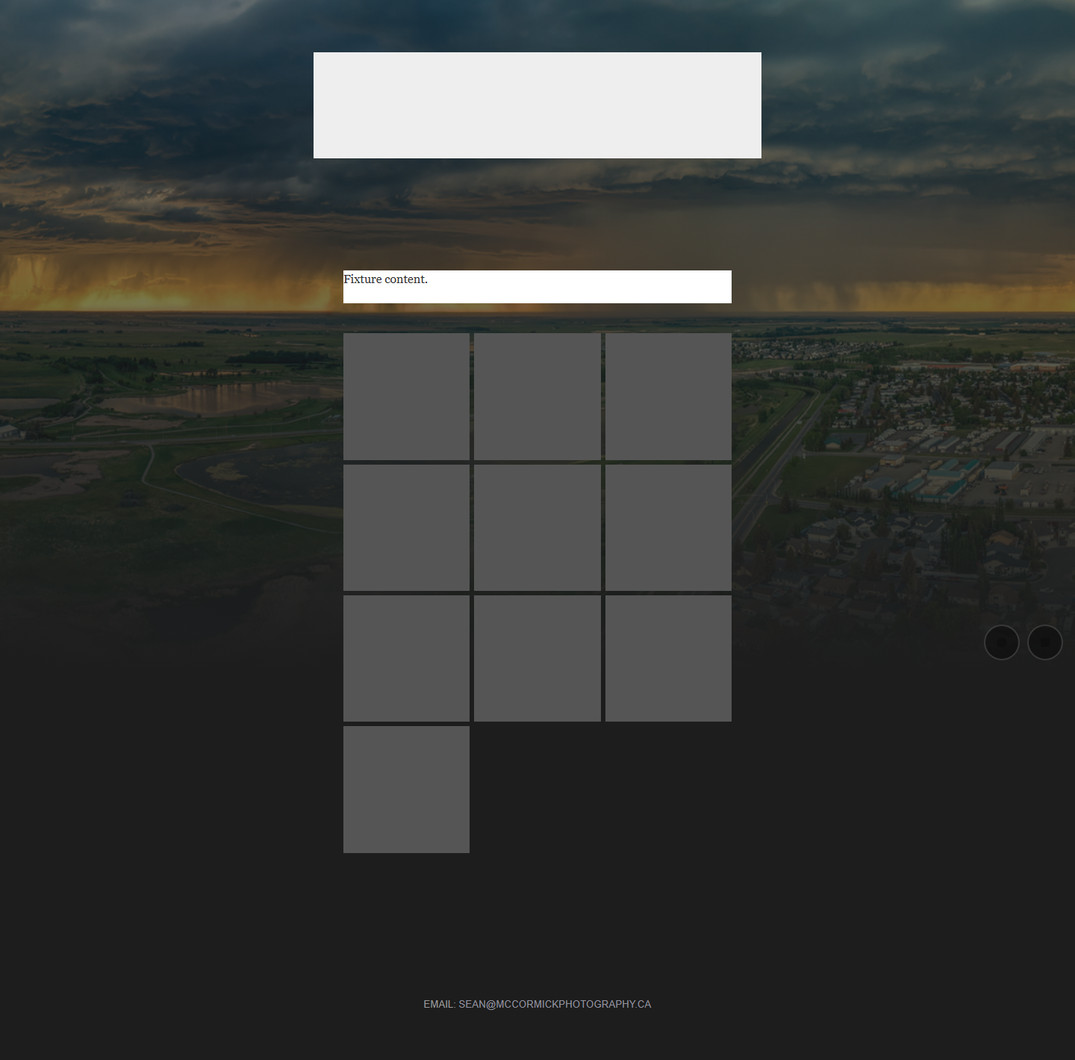
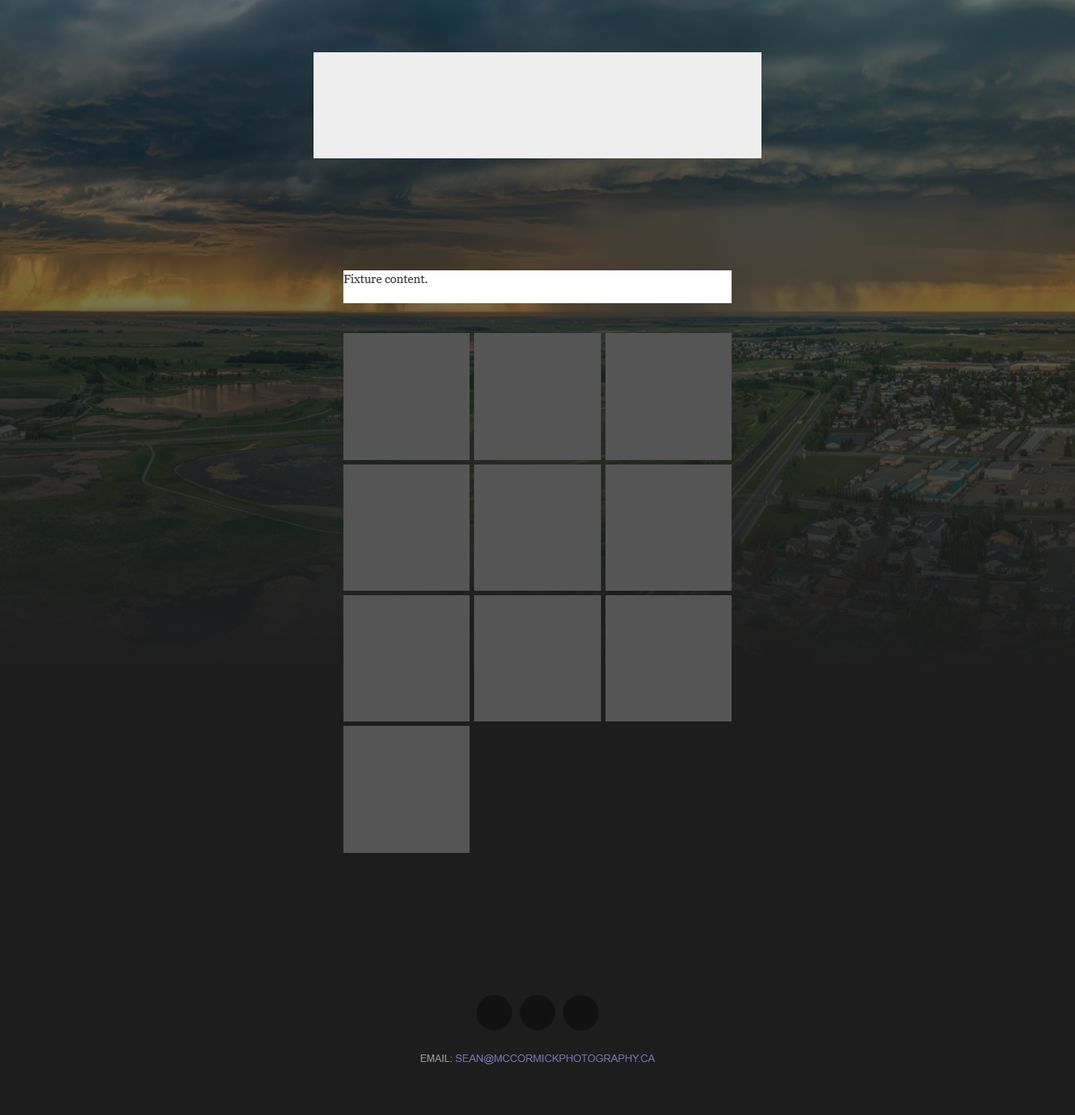
Repair shared Social Dock rendering
Give strict skins a dedicated social_dock view model, wire it into both public controller paths, and restore ALFRED's footer placement. Hide accessibility labels in the shared dock CSS so SCROLL and every other skin no longer expose raw platform names. Add independent Pixelfed and Email controls across settings, export, fleet push, legacy rendering, and the strict shared component. Bump ALFRED to 1.0.24 and browser-verify at 1920, 1440, and 1024.

diff --git a/assets/css/ss-engine-social-dock.css b/assets/css/ss-engine-social-dock.css
@@ -79,6 +79,21 @@
     flex-shrink: 0;
 }
 
+/* The dock owns this accessibility label. Do not depend on a skin defining
+   the generic WordPress-era helper: SCROLL did not, so the labels rendered as
+   visible text over the navigation even though the SVGs were present. */
+.dock-link .screen-reader-text {
+    position: absolute !important;
+    width: 1px;
+    height: 1px;
+    padding: 0;
+    margin: -1px;
+    overflow: hidden;
+    clip: rect(0, 0, 0, 0);
+    white-space: nowrap;
+    border: 0;
+}
+
 
 /* ─── DOWNLOAD ICON IN DOCK ────────────────────────────────────── */
 

diff --git a/skins/alfred/layout.php b/skins/alfred/layout.php
@@ -7,7 +7,7 @@
 <?php elseif (($view['response']['kind'] ?? '') === 'feed'): ?><section class="section-inner"><div id="browse-grid" class="alfred-archive-grid posts smacktalk-feed public-grid h-feed <?php echo snap_escape_attr($view['site']['skin_presentation']['landing']['grid_class'] ?? ''); ?>"><?php foreach (($view['response']['posts'] ?? []) as $post): ?><article class="post smacktalk-feed-item ss-masonry-item"><a class="alfred-archive-tile" href="<?php echo snap_escape_url($post['url'] ?? ''); ?>"><?php if (!empty($post['image_url'])): ?><?php echo snap_render_html(snap_render_component('image', ['url' => $post['image_url'], 'alt' => $post['title'] ?? ''])); ?><?php endif; ?><span class="alfred-tile-title"><?php echo snap_escape_html($post['title'] ?? ''); ?></span></a></article><?php endforeach; ?></div><?php if (!empty($view['response']['next_url'])): ?><?php echo snap_render_html(snap_render_component('feed-pager', ['prefix' => 'alfred', 'feed' => true, 'base' => snap_route_url('home'), 'next_url' => $view['response']['next_url'], 'next_page' => $view['response']['next_page'] ?? 0, 'grid_selector' => '#browse-grid', 'item_selector' => '#browse-grid > .smacktalk-feed-item'])); ?><?php endif; ?></section>
 <?php elseif (($view['response']['kind'] ?? '') === 'archive'): ?><section class="section-inner smacktalk-archive"><h1><?php echo snap_escape_html($view['response']['page_title'] ?? 'Archive'); ?></h1><?php echo snap_render_html(snap_render_component('search-summary', ['term' => $view['response']['search_term'] ?? '', 'posts' => $view['response']['search_posts'] ?? [], 'tiles' => $view['response']['tiles'] ?? []])); ?><div class="alfred-archive-grid<?php if (($view['site']['skin_presentation']['options']['show_post_titles'] ?? '0') === '1'): ?> alfred-show-titles<?php endif; ?>"><?php foreach (($view['response']['tiles'] ?? []) as $tile): ?><a class="alfred-archive-tile" href="<?php echo snap_escape_url($tile['full'] ?? ''); ?>" data-full="<?php echo snap_escape_url($tile['full'] ?? ''); ?>" data-title="<?php echo snap_escape_attr($tile['title'] ?? ''); ?>" aria-label="<?php echo snap_escape_attr(($tile['title'] ?? '') !== '' ? $tile['title'] : 'View photograph'); ?>"><?php echo snap_render_html(snap_render_component('image', ['url' => $tile['thumb'] ?? '', 'alt' => $tile['title'] ?? ''])); ?><span class="alfred-tile-title"><?php echo snap_escape_html($tile['title'] ?? ''); ?></span></a><?php endforeach; ?></div><?php if (empty($view['response']['tiles'])): ?><p class="alfred-archive-empty">No photographs found.</p><?php endif; ?><div id="alfred-archive-lightbox" class="alfred-lightbox" role="dialog" aria-modal="true" aria-label="Photograph viewer" hidden><button class="alfred-lb-close" type="button" aria-label="Close photograph viewer">&#215;</button><button class="alfred-lb-prev" type="button" aria-label="Previous photograph">&#8249;</button><img class="alfred-lb-img" alt=""><button class="alfred-lb-next" type="button" aria-label="Next photograph">&#8250;</button><p class="alfred-lb-caption"></p></div></section>
 <?php else: ?><section class="not-found"><h1>Not found</h1></section><?php endif; ?>
-</main></div><footer id="system-footer" class="site-footer<?php if (!empty($view['site']['footer']['lowercase'])): ?> footer-lowercase<?php endif; ?>"><div id="footer" class="inside"><?php echo snap_render_html(snap_render_component('social-dock', ['model' => $view['site']['crop_circles'] ?? []])); ?><?php echo snap_render_html(snap_render_component('footer', ['footer' => $view['site']['footer'] ?? []])); ?></div></footer></div><?php echo snap_render_html(snap_render_component('registered-assets', ['assets' => $view['site']['registered_assets'] ?? []])); ?><?php echo snap_render_html($view['site']['owner_custom_code'] ?? ''); ?></body></html>
+</main></div><footer id="system-footer" class="site-footer<?php if (!empty($view['site']['footer']['lowercase'])): ?> footer-lowercase<?php endif; ?>"><div id="footer" class="inside"><?php echo snap_render_html(snap_render_component('social-dock', ['model' => $view['site']['social_dock'] ?? []])); ?><?php echo snap_render_html(snap_render_component('footer', ['footer' => $view['site']['footer'] ?? []])); ?></div></footer></div><?php echo snap_render_html(snap_render_component('registered-assets', ['assets' => $view['site']['registered_assets'] ?? []])); ?><?php echo snap_render_html($view['site']['owner_custom_code'] ?? ''); ?></body></html>
 
 
 <?php // ===== SNAPSMACK EOF =====

diff --git a/core/social-dock.php b/core/social-dock.php
@@ -132,6 +132,16 @@ $_dock_platforms = [
         'key' => 'social_dock_linktree',
         'svg' => '<svg viewBox="0 0 24 24" fill="currentColor"><path d="M7.953 15.066l-.038-4.086-3.291 3.19-1.624-1.624 3.291-3.19H2.135V7.178h4.156L2.935 3.832l1.624-1.624 3.355 3.355L7.953 1.5h2.09v4.063l3.356-3.355 1.624 1.624-3.356 3.346h4.156v2.178h-4.156l3.291 3.19-1.624 1.624-3.291-3.19.038 4.086h-2.09zm0 1.998h2.09V22.5h-2.09v-5.436z"/></svg>'
     ],
+    'pixelfed' => [
+        'label' => 'Pixelfed',
+        'key' => 'social_dock_pixelfed',
+        'svg' => '<svg viewBox="0 0 24 24" fill="currentColor" fill-rule="evenodd"><path d="M6.5 3h11A3.5 3.5 0 0 1 21 6.5v11a3.5 3.5 0 0 1-3.5 3.5h-11A3.5 3.5 0 0 1 3 17.5v-11A3.5 3.5 0 0 1 6.5 3Zm4 5.2v8.3h1.9v-2.6h1.4a2.85 2.85 0 0 0 0-5.7Zm1.9 1.8h1.3a1.05 1.05 0 0 1 0 2.1h-1.3Z"/></svg>'
+    ],
+    'email' => [
+        'label' => 'Email',
+        'key' => 'social_dock_email',
+        'svg' => '<svg viewBox="0 0 24 24" fill="none" stroke="currentColor" stroke-width="1.8" stroke-linecap="round" stroke-linejoin="round"><rect x="3" y="5" width="18" height="14" rx="2"/><path d="m4 7 8 6 8-6"/></svg>'
+    ],
     'website' => [
         'label' => 'Website',
         'key' => 'social_dock_website',
@@ -162,6 +172,8 @@ $_dock_outline = [
     'deviantart' => '<svg viewBox="0 0 24 24" fill="none" stroke="currentColor" stroke-width="1.8" stroke-linecap="round" stroke-linejoin="round"><path d="M17 4.5h-3l-1.4 2.8H8.5v3.4h2.4L8.5 15.4v4.1h3l1.4-2.8h4.1v-3.4h-2.4L17 8.6z"/></svg>',
     'behance'    => '<svg viewBox="0 0 24 24" fill="none" stroke="currentColor" stroke-width="1.8" stroke-linecap="round" stroke-linejoin="round"><path d="M4 7.5h3.4a1.8 1.8 0 0 1 0 3.6H4z"/><path d="M4 11.1h3.9a1.9 1.9 0 0 1 0 3.8H4V7.5z"/><path d="M14 12.6h4.2a2.3 2.3 0 0 0-4.2 0 2.3 2.3 0 0 0 3.8 1.7"/><path d="M15 8.4h3"/></svg>',
     'linktree'   => '<svg viewBox="0 0 24 24" fill="none" stroke="currentColor" stroke-width="1.8" stroke-linecap="round" stroke-linejoin="round"><path d="M12 3v18"/><path d="M12 8.5l5.5-3.2M12 8.5L6.5 5.3"/><path d="M12 13.5l5.5 3.2M12 13.5l-5.5 3.2"/></svg>',
+    'pixelfed'   => '<svg viewBox="0 0 24 24" fill="none" stroke="currentColor" stroke-width="1.8" stroke-linecap="round" stroke-linejoin="round"><rect x="3.5" y="3.5" width="17" height="17" rx="5"/><path d="M10 16.5v-9h3a3 3 0 0 1 0 6h-3"/></svg>',
+    'email'      => '<svg viewBox="0 0 24 24" fill="none" stroke="currentColor" stroke-width="1.8" stroke-linecap="round" stroke-linejoin="round"><rect x="3" y="5" width="18" height="14" rx="2"/><path d="m4 7 8 6 8-6"/></svg>',
     'website'    => '<svg viewBox="0 0 24 24" fill="none" stroke="currentColor" stroke-width="1.8" stroke-linecap="round" stroke-linejoin="round"><circle cx="12" cy="12" r="8.5"/><path d="M3.5 12h17"/><path d="M12 3.5c2.4 2.5 3.7 5.6 3.7 8.5S14.4 18 12 20.5C9.6 18 8.3 14.9 8.3 12S9.6 6 12 3.5z"/></svg>',
 ];
 $_dock_icon_style = (($_dock_ovr['icon_style'] ?? ($settings['social_dock_icon_style'] ?? 'solid')) === 'outline') ? 'outline' : 'solid';
@@ -175,7 +187,10 @@ $_dock_pixelfed_outline = '<svg viewBox="0 0 24 24" fill="none" stroke="currentC
 // Build active links array
 $_dock_links = [];
 foreach ($_dock_platforms as $_platform_key => $_platform) {
-    $_url = snapsmack_indieweb_url((string)($settings[ $_platform['key'] ] ?? ''));
+    $_value = (string)($settings[ $_platform['key'] ] ?? '');
+    $_url = $_platform_key === 'email'
+        ? snapsmack_social_email_url($_value)
+        : snapsmack_indieweb_url($_value);
     if ($_url !== '') {
         $_svg = ($_dock_icon_style === 'outline' && isset($_dock_outline[$_platform_key]))
             ? $_dock_outline[$_platform_key]

diff --git a/tests/strict-skins-can-place-the-shared-social-dock-regression.php b/tests/strict-skins-can-place-the-shared-social-dock-regression.php
@@ -47,6 +47,7 @@ if (!defined('BASE_URL')) { define('BASE_URL', 'https://example.invalid/'); }
 require_once $root . '/core/trusted-html.php';
 require_once $root . '/core/skin-render-helpers.php';
 require_once $root . '/core/skin-view-contract.php';
+require_once $root . '/core/indieweb.php';
 
 /** The crop_circles view model core builds, with two configured platforms. */
 function sd_model(array $social = []): array {
@@ -95,6 +96,17 @@ sd_check('  the appearance settings the owner chose, all of them',
          && str_contains($dock, '--dock-idle-opacity:0.5'), $failures);
 sd_check('  and a name for screen readers on every link',
          substr_count($dock, 'screen-reader-text') === 2, $failures);
+$emailDock = (string)snap_render_component('social-dock', ['model' => sd_model([
+    ['url' => snapsmack_social_email_url('owner@example.test'), 'label' => 'Email', 'icon' => 'email'],
+    ['url' => 'https://pixelfed.social/owner', 'label' => 'Pixelfed', 'icon' => 'pixelfed'],
+])]);
+sd_check('Email and external Pixelfed are independent dock links',
+         str_contains($emailDock, 'href="mailto:owner@example.test"')
+         && str_contains($emailDock, 'crop-circles.svg#email')
+         && str_contains($emailDock, 'https://pixelfed.social/owner')
+         && str_contains($emailDock, 'crop-circles.svg#pixelfed'), $failures);
+sd_check('an invalid email cannot become a dock URL',
+         snapsmack_social_email_url('not an address') === '', $failures);
 
 // A corner position, for a skin that wants the floating dock rather than a row.
 $corner = (string)snap_render_component('social-dock',
@@ -160,7 +172,7 @@ file_put_contents($tmp . '/layout.php',
     '<?php defined(\'SNAPSMACK_SKIN_RENDER\') || exit; ?>' . "\n"
     . '<!doctype html><html><head><title>t</title></head><body><footer>'
     . '<?php echo snap_render_html(snap_render_component(\'social-dock\','
-    . ' [\'model\' => $view[\'site\'][\'crop_circles\'] ?? []])); ?>'
+    . ' [\'model\' => $view[\'site\'][\'social_dock\'] ?? []])); ?>'
     . '</footer></body></html>');
 
 $view = [
@@ -168,7 +180,7 @@ $view = [
     'version' => SNAPSMACK_SKIN_VIEW_MODEL_VERSION,
     'response' => ['kind' => 'feed', 'posts' => []],
     'site' => ['site_name' => 'A Photographer', 'language' => 'en', 'direction' => 'ltr',
-               'crop_circles' => sd_model($two)],
+               'social_dock' => sd_model($two)],
 ];
 
 ob_start();
@@ -185,7 +197,7 @@ sd_check('  inside the footer where the template put it',
 
 // And the same template with the dock off renders a footer with nothing in it.
 $viewOff = $view;
-$viewOff['site']['crop_circles'] = sd_model([]);
+$viewOff['site']['social_dock'] = sd_model([]);
 ob_start();
 snapsmack_render_strict_skin_template($tmp, 'layout.php', $viewOff);
 $outOff = (string)ob_get_clean();
@@ -209,6 +221,11 @@ sd_check('and a manifest that does not declare it gets no dock stylesheet',
          !array_filter(snapsmack_skin_declared_assets([])['styles'],
              static fn(string $u): bool => str_contains($u, 'ss-engine-social-dock.css')),
          $failures);
+
+$dockCss = (string)file_get_contents($root . '/assets/css/ss-engine-social-dock.css');
+sd_check('the shared dock hides its own screen-reader labels without skin CSS',
+         str_contains($dockCss, '.dock-link .screen-reader-text')
+         && str_contains($dockCss, 'clip: rect(0, 0, 0, 0)'), $failures);
 
 echo "\n";
 if ($failures) {

diff --git a/core/skin-view-model.php b/core/skin-view-model.php
@@ -141,10 +141,14 @@ function snapsmack_prepare_crop_circles(PDO $pdo, array $settings, array $manife
             'flickr'=>'Flickr','smugmug'=>'SmugMug','instagram'=>'Instagram','facebook'=>'Facebook',
             'youtube'=>'YouTube','500px'=>'500px','vero'=>'Vero','threads'=>'Threads',
             'mastodon'=>'Mastodon','bluesky'=>'Bluesky','linkedin'=>'LinkedIn','pinterest'=>'Pinterest',
-            'tumblr'=>'Tumblr','deviantart'=>'DeviantArt','behance'=>'Behance','linktree'=>'Linktree','website'=>'Website',
+            'tumblr'=>'Tumblr','deviantart'=>'DeviantArt','behance'=>'Behance','linktree'=>'Linktree',
+            'pixelfed'=>'Pixelfed','email'=>'Email','website'=>'Website',
         ];
         foreach ($platforms as $key => $label) {
-            $url = snapsmack_indieweb_url((string)($settings['social_dock_' . $key] ?? ''));
+            $value = (string)($settings['social_dock_' . $key] ?? '');
+            $url = $key === 'email'
+                ? snapsmack_social_email_url($value)
+                : snapsmack_indieweb_url($value);
             if ($url !== '') $model['social'][] = ['url' => $url, 'label' => $label, 'icon' => $key];
         }
     }
@@ -164,6 +168,19 @@ function snapsmack_prepare_crop_circles(PDO $pdo, array $settings, array $manife
         'opacity' => max(0, min(100, (int)($dock['opacity'] ?? $settings['social_dock_opacity'] ?? 50))) / 100,
     ];
     return $model;
+}
+
+/** The Social Dock's own bounded model, separate from Crop Circles controls. */
+function snapsmack_social_dock_model(array $cropCircles, array $manifest): array
+{
+    $dock = is_array($manifest['social_dock'] ?? null) ? $manifest['social_dock'] : [];
+    $position = preg_replace('/[^a-z-]/', '', strtolower((string)($dock['position'] ?? 'inline')));
+    return [
+        'social' => is_array($cropCircles['social'] ?? null) ? $cropCircles['social'] : [],
+        'appearance' => is_array($cropCircles['appearance'] ?? null) ? $cropCircles['appearance'] : [],
+        'icon_sprite_url' => (string)($cropCircles['icon_sprite_url'] ?? ''),
+        'position' => $position !== '' ? $position : 'inline',
+    ];
 }
 
 /** Build the read-only Flickr-style masthead model for SLICKR. */
@@ -579,6 +596,7 @@ function snapsmack_public_presentation(PDO $pdo, array $settings, string $active
             . '/variant-' . rawurlencode($variant) . '.css?v=' . rawurlencode($version);
     }
 
+    $cropCircles = snapsmack_prepare_crop_circles($pdo, $settings, $manifest, $navigation);
     return [
         'site_name' => (string)($settings['site_name'] ?? ''),
         'tagline' => (string)($settings['site_tagline'] ?? ''),
@@ -620,7 +638,8 @@ function snapsmack_public_presentation(PDO $pdo, array $settings, string $active
         // for every build of it, old or new.
         'slickr_profile' => snapsmack_skin_wants_profile($active_skin, $manifest)
             ? snapsmack_prepare_slickr_profile($pdo, $settings, $navigation) : [],
-        'crop_circles' => snapsmack_prepare_crop_circles($pdo, $settings, $manifest, $navigation),
+        'crop_circles' => $cropCircles,
+        'social_dock' => snapsmack_social_dock_model($cropCircles, $manifest),
     ];
 }
 

diff --git a/index.php b/index.php
@@ -351,6 +351,12 @@ try {
                 // prints from $settings on this same request.
                 require_once __DIR__ . '/core/skin-css-recompile.php';
                 snapsmack_public_css_refresh_if_stale($pdo, (string)$active_skin, $settings);
+                $_smacktalk_crop_circles = snapsmack_prepare_crop_circles(
+                    $pdo,
+                    $settings,
+                    $_active_manifest,
+                    $_smacktalk['navigation'] ?? []
+                );
                 $_strict_view = snapsmack_build_skin_view($_smacktalk, [
                     'site_name' => (string)($settings['site_name'] ?? ''),
                     'tagline' => (string)($settings['site_tagline'] ?? ''),
@@ -394,6 +400,8 @@ try {
                     'owner_custom_code' => snapsmack_owner_custom_code($settings),
                     'registered_assets' => $_registered_skin_assets,
                     'footer' => snapsmack_prepare_public_footer($settings, $_active_manifest),
+                    'crop_circles' => $_smacktalk_crop_circles,
+                    'social_dock' => snapsmack_social_dock_model($_smacktalk_crop_circles, $_active_manifest),
                 ]);
                 // The SMACKTALK controller exits here too, so it had the same
                 // silent hole: a converted SMACKTALK site recorded nothing.
@@ -550,6 +558,7 @@ try {
         // prints from $settings on this same request.
         require_once __DIR__ . '/core/skin-css-recompile.php';
         snapsmack_public_css_refresh_if_stale($pdo, (string)$active_skin, $settings);
+        $_crop_circles = snapsmack_prepare_crop_circles($pdo, $settings, $_active_manifest, $_public['navigation'] ?? []);
         $_strict_view = snapsmack_build_skin_view($_public, [
             'site_name' => (string)($settings['site_name'] ?? ''),
             'tagline' => (string)($settings['site_tagline'] ?? ''),
@@ -605,7 +614,8 @@ try {
             'registered_assets' => $_registered_skin_assets,
             'footer' => snapsmack_prepare_public_footer($settings, $_active_manifest),
             'slickr_profile' => $active_skin === 'slickr' ? snapsmack_prepare_slickr_profile($pdo, $settings, $_public['navigation'] ?? []) : [],
-            'crop_circles' => snapsmack_prepare_crop_circles($pdo, $settings, $_active_manifest, $_public['navigation'] ?? []),
+            'crop_circles' => $_crop_circles,
+            'social_dock' => snapsmack_social_dock_model($_crop_circles, $_active_manifest),
         ]);
 
         // PHOTOGRAM's phone feed uses its historical ?format=json&p=N wire

diff --git a/core/skin-render-helpers.php b/core/skin-render-helpers.php
@@ -86,6 +86,18 @@ function snap_escape_url(mixed $value): string {
     return htmlspecialchars($url, ENT_QUOTES | ENT_SUBSTITUTE, 'UTF-8');
 }
 
+/** Escape a prevalidated Social Dock link, including its email-only route. */
+function snap_escape_social_url(mixed $value): string {
+    $url = trim((string)$value);
+    if (str_starts_with(strtolower($url), 'mailto:')) {
+        $email = substr($url, 7);
+        return filter_var($email, FILTER_VALIDATE_EMAIL) !== false
+            ? htmlspecialchars('mailto:' . $email, ENT_QUOTES | ENT_SUBSTITUTE, 'UTF-8')
+            : '';
+    }
+    return snap_escape_url($url);
+}
+
 function snap_render_html(mixed $value): string {
     return $value instanceof SnapTrustedHtml || $value instanceof SnapOwnerCode ? (string)$value : snap_escape_html($value);
 }
@@ -347,7 +359,7 @@ function snapsmack_social_dock_markup(array $model, string $position = 'inline',
     foreach ($social as $item) {
         if (!is_array($item)) { continue; }
         $glyph = preg_replace('/[^a-z0-9]/', '', strtolower((string)($item['icon'] ?? 'link')));
-        $html .= '<a href="' . snap_escape_url($item['url'] ?? '')
+        $html .= '<a href="' . snap_escape_social_url($item['url'] ?? '')
             . '" target="_blank" rel="me noopener" title="' . snap_escape_attr($item['label'] ?? '')
             . '" class="dock-link u-url"><svg viewBox="0 0 24 24" aria-hidden="true"><use href="'
             . snap_escape_url($sprite) . '#' . snap_escape_attr($glyph) . '"></use></svg>'
@@ -902,7 +914,7 @@ function snap_render_component(string $name, array $data): SnapTrustedHtml {
         $model = is_array($data['model'] ?? null) ? $data['model'] : [];
         $html = snapsmack_social_dock_markup(
             $model,
-            (string)($data['position'] ?? 'inline'),
+            (string)($data['position'] ?? $model['position'] ?? 'inline'),
             (string)($data['label'] ?? 'Social links')
         );
     } elseif ($name === 'crop-circles') {

diff --git a/smack-push-it.php b/smack-push-it.php
@@ -65,7 +65,7 @@ $push_group_keys = [
         'social_dock_youtube', 'social_dock_500px', 'social_dock_vero', 'social_dock_threads',
         'social_dock_mastodon', 'social_dock_bluesky', 'social_dock_linkedin', 'social_dock_pinterest',
         'social_dock_tumblr', 'social_dock_deviantart', 'social_dock_behance', 'social_dock_linktree',
-        'social_dock_website',
+        'social_dock_pixelfed', 'social_dock_email', 'social_dock_website',
         'social_dock_own_fedi',
         'hub_controls_socialdock',
     ],
@@ -596,7 +596,7 @@ include 'core/sidebar.php';
                 <div class="lens-input-wrapper">
                     <label>PROFILE LINKS SET</label>
                     <div class="read-only-display"><?php
-                        $_dock_platform_keys = ['social_dock_flickr','social_dock_smugmug','social_dock_instagram','social_dock_facebook','social_dock_youtube','social_dock_500px','social_dock_vero','social_dock_threads','social_dock_mastodon','social_dock_bluesky','social_dock_linkedin','social_dock_pinterest','social_dock_tumblr','social_dock_deviantart','social_dock_behance','social_dock_linktree','social_dock_website'];
+                        $_dock_platform_keys = ['social_dock_flickr','social_dock_smugmug','social_dock_instagram','social_dock_facebook','social_dock_youtube','social_dock_500px','social_dock_vero','social_dock_threads','social_dock_mastodon','social_dock_bluesky','social_dock_linkedin','social_dock_pinterest','social_dock_tumblr','social_dock_deviantart','social_dock_behance','social_dock_linktree','social_dock_pixelfed','social_dock_email','social_dock_website'];
                         $_dock_set = 0;
                         foreach ($_dock_platform_keys as $_dk) { if (trim((string)($settings[$_dk] ?? '')) !== '') $_dock_set++; }
                         echo (int)$_dock_set . ' of ' . count($_dock_platform_keys);

diff --git a/smack-social-dock.php b/smack-social-dock.php
@@ -62,7 +62,7 @@ if (isset($_POST['save_social_dock'])) {
         'social_dock_vero', 'social_dock_threads', 'social_dock_mastodon', 'social_dock_bluesky',
         'social_dock_linkedin', 'social_dock_pinterest', 'social_dock_tumblr',
         'social_dock_deviantart', 'social_dock_behance', 'social_dock_linktree',
-        'social_dock_website',
+        'social_dock_pixelfed', 'social_dock_email', 'social_dock_website',
     ];
 
     foreach ($platforms as $key) {
@@ -290,6 +290,12 @@ include 'core/sidebar.php';
 
                     <label>LINKTREE</label>
                     <input type="url" name="social_dock_linktree" value="<?php echo htmlspecialchars($settings['social_dock_linktree'] ?? ''); ?>" placeholder="https://linktr.ee/you">
+
+                    <label>PIXELFED PROFILE</label>
+                    <input type="url" name="social_dock_pixelfed" value="<?php echo htmlspecialchars($settings['social_dock_pixelfed'] ?? ''); ?>" placeholder="https://pixelfed.social/you">
+
+                    <label>EMAIL</label>
+                    <input type="email" name="social_dock_email" value="<?php echo htmlspecialchars($settings['social_dock_email'] ?? ''); ?>" placeholder="you@example.com">
 
                     <label>PERSONAL WEBSITE</label>
                     <input type="url" name="social_dock_website" value="<?php echo htmlspecialchars($settings['social_dock_website'] ?? ''); ?>" placeholder="https://yoursite.com">

diff --git a/tests/alfred-footer-carries-the-shared-social-dock-regression.php b/tests/alfred-footer-carries-the-shared-social-dock-regression.php
@@ -51,7 +51,7 @@ $layout = (string)file_get_contents($root . '/skins/alfred/layout.php');
 $check('the layout places the social-dock component',
        str_contains($layout, "snap_render_component('social-dock'"));
 $check('  passing the view model and nothing else',
-       str_contains($layout, "'model' => \$view['site']['crop_circles']"));
+       str_contains($layout, "'model' => \$view['site']['social_dock']"));
 $check('  and holds no social markup of its own',
        !str_contains($layout, 'alfred-footer-social') && !str_contains($layout, 'social-menu'));
 $check('ALFRED\'s stylesheet holds no private dock styles',
@@ -107,7 +107,7 @@ $render = static function (array $social) use ($root, $cropCircles): array {
         'site_name' => 'A Photographer', 'language' => 'en', 'direction' => 'ltr',
         'skin_style_url' => '/skins/alfred/style.css',
         'skin_custom_style' => snapsmack_trusted_html(''),
-        'skin_presentation' => [], 'crop_circles' => $cropCircles($social),
+        'skin_presentation' => [], 'social_dock' => $cropCircles($social),
         'footer' => ['text' => 'Copyright', 'lowercase' => false],
         'registered_assets' => [], 'owner_custom_code' => snapsmack_trusted_html(''),
     ]);

diff --git a/core/indieweb.php b/core/indieweb.php
@@ -20,6 +20,12 @@ function snapsmack_indieweb_url(string $url): string {
     return in_array($scheme, ['http', 'https'], true) ? $url : '';
 }
 
+/** Return a mailto link only for one syntactically valid owner address. */
+function snapsmack_social_email_url(string $email): string {
+    $email = trim($email);
+    return filter_var($email, FILTER_VALIDATE_EMAIL) !== false ? 'mailto:' . $email : '';
+}
+
 /**
  * Identity URLs already configured for the public Social Dock.
  *
@@ -36,7 +42,7 @@ function snapsmack_indieweb_identity_urls(array $settings): array {
         'social_dock_vero', 'social_dock_threads', 'social_dock_mastodon',
         'social_dock_bluesky', 'social_dock_linkedin', 'social_dock_pinterest',
         'social_dock_tumblr', 'social_dock_deviantart', 'social_dock_behance',
-        'social_dock_linktree', 'social_dock_website',
+        'social_dock_linktree', 'social_dock_pixelfed', 'social_dock_website',
     ];
 
     $urls = [];

diff --git a/core/skin-view-contract.php b/core/skin-view-contract.php
@@ -185,7 +185,7 @@ function snapsmack_build_skin_view(array $response, array $presentation = []): a
     $allowedPresentation = ['site_name', 'tagline', 'site_url', 'base_url', 'language',
         'direction', 'brand_logo', 'owner_name', 'site_description', 'avatar_url', 'skin_slug',
         'skin_style_url', 'base_style_url', 'skin_variant_url', 'skin_custom_style', 'skin_presentation', 'search_dock', 'owner_custom_code', 'registered_assets',
-        'favicon_url', 'og_image_url', 'footer', 'slickr_profile', 'crop_circles', 'archive_layout', 'archive_thumb_style', 'archive_grid', 'body_class'];
+        'favicon_url', 'og_image_url', 'footer', 'slickr_profile', 'crop_circles', 'social_dock', 'archive_layout', 'archive_thumb_style', 'archive_grid', 'body_class'];
     // THE ARCHIVE'S OWN CONTROL ROW -- SHOW ALL, the filter panel, the search
     // field and the layout toggles.
     //
